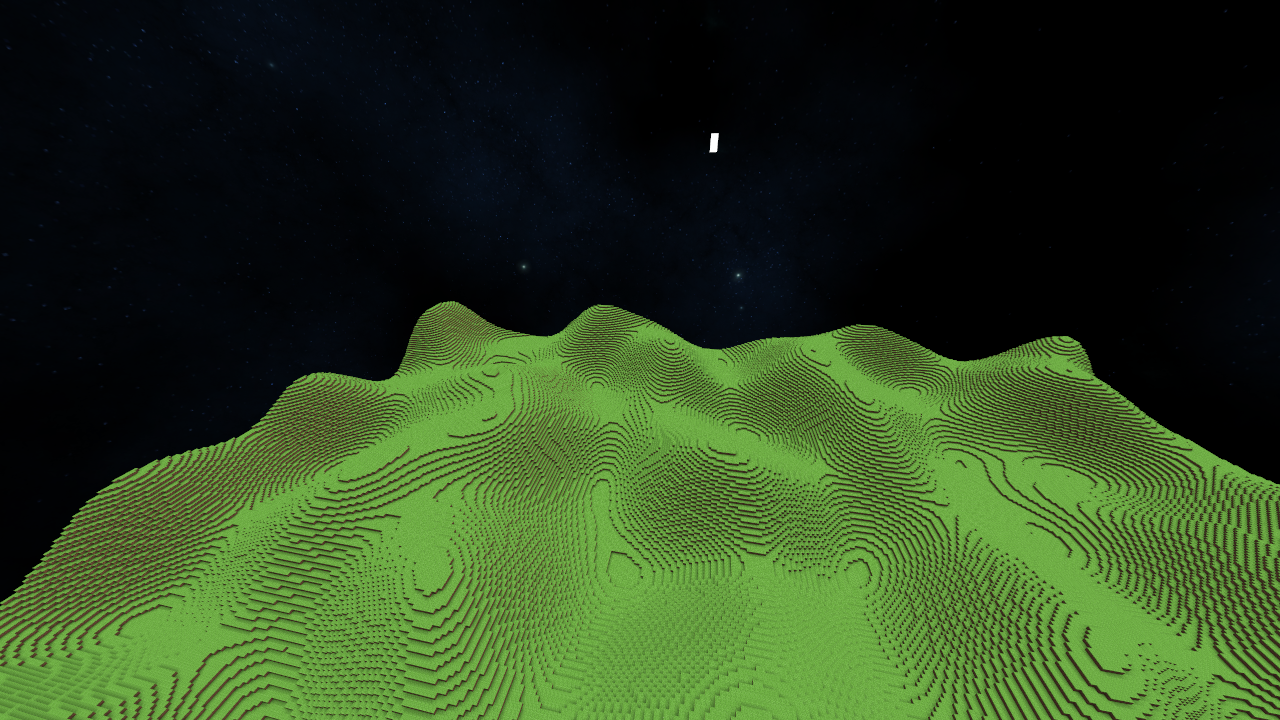
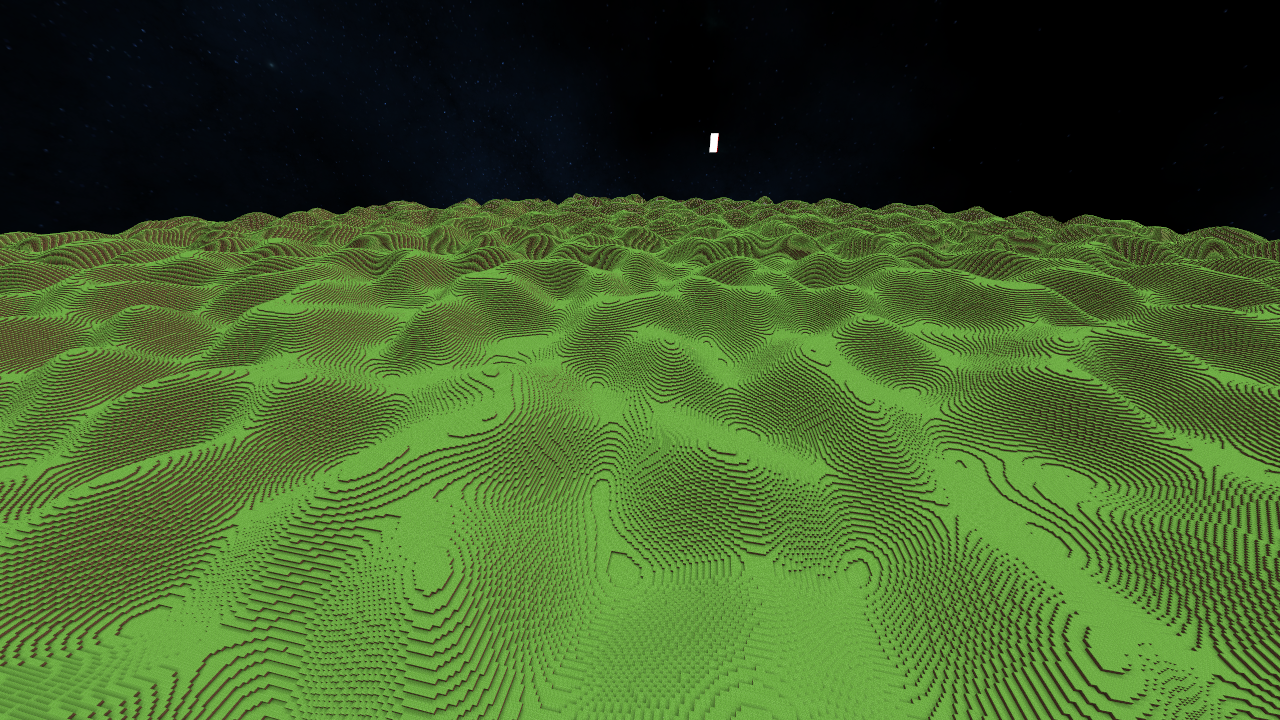
Add job priority to global thread pool
Add total time display to camera window.

Update latest screenshot.

The new priority system allows to set the meshing job priority higher than the generation job, avoiding thread starvation.
Prior to this change all generation jobs were queued before any meshing jobs had a chance to be queued, meaning all generation jobs had to be completed before any meshes were generated.

Changed region(s): [[0.0, 0.275, 1.0, 0.825]]

diff --git a/source/client/source/Threading/Pooling/PriorityWorkQueue.cs b/source/client/source/Threading/Pooling/PriorityWorkQueue.cs
@@ -1,0 +1,81 @@
+using System.Collections.Concurrent;
+
+namespace BlockEngine.Client.Threading.Pooling;
+
+/// <summary>
+/// A thread-safe work queue with multiple priority levels.
+/// </summary>
+/// <typeparam name="T">The type of the items in the queue.</typeparam>
+public class PriorityWorkQueue<T>
+{
+    private readonly BlockingCollection<T> _workQueueLow;
+    private readonly BlockingCollection<T> _workQueueNormal;
+    private readonly BlockingCollection<T> _workQueueHigh;
+    private readonly BlockingCollection<T> _workQueueCritical;
+    private readonly BlockingCollection<T>[] _workQueues;
+
+
+    public PriorityWorkQueue()
+    {
+        _workQueueLow = new BlockingCollection<T>(new ConcurrentQueue<T>());
+        _workQueueNormal = new BlockingCollection<T>(new ConcurrentQueue<T>());
+        _workQueueHigh = new BlockingCollection<T>(new ConcurrentQueue<T>());
+        _workQueueCritical = new BlockingCollection<T>(new ConcurrentQueue<T>());
+        _workQueues = new[]
+        {
+            _workQueueCritical,
+            _workQueueHigh,
+            _workQueueNormal,
+            _workQueueLow
+        };
+    }
+
+
+    public bool IsCompleted => _workQueueLow.IsCompleted &&
+                               _workQueueNormal.IsCompleted &&
+                               _workQueueHigh.IsCompleted &&
+                               _workQueueCritical.IsCompleted;
+
+    public bool IsAddingCompleted => _workQueueLow.IsAddingCompleted &&
+                                     _workQueueNormal.IsAddingCompleted &&
+                                     _workQueueHigh.IsAddingCompleted &&
+                                     _workQueueCritical.IsAddingCompleted;
+
+
+    public void Add(T item, WorkItemPriority priority)
+    {
+        switch (priority)
+        {
+            case WorkItemPriority.Low:
+                _workQueueLow.Add(item);
+                break;
+            case WorkItemPriority.Normal:
+                _workQueueNormal.Add(item);
+                break;
+            case WorkItemPriority.High:
+                _workQueueHigh.Add(item);
+                break;
+            case WorkItemPriority.Critical:
+                _workQueueCritical.Add(item);
+                break;
+            default:
+                throw new ArgumentOutOfRangeException(nameof(priority), priority, null);
+        }
+    }
+
+
+    public bool TryTakeFromAny(out T? item)
+    {
+        int index = BlockingCollection<T>.TryTakeFromAny(_workQueues, out item);
+        return index != -1;
+    }
+
+
+    public void CompleteAdding()
+    {
+        _workQueueLow.CompleteAdding();
+        _workQueueNormal.CompleteAdding();
+        _workQueueHigh.CompleteAdding();
+        _workQueueCritical.CompleteAdding();
+    }
+}

diff --git a/source/client/source/Threading/Jobs/KorpiJob.cs b/source/client/source/Threading/Jobs/KorpiJob.cs
@@ -6,7 +6,7 @@ namespace BlockEngine.Client.Threading.Jobs;
 /// <summary>
 /// A job for the <see cref="Pooling.ThreadPool"/> with a generic result type.
 /// </summary>
-public abstract class VektorJob<T> : IVektorJob, IAwaitable<T>
+public abstract class KorpiJob<T> : IKorpiJob, IAwaitable<T>
 {
     private Action? _continuation;
     private T _result;
@@ -18,11 +18,11 @@ public abstract class VektorJob<T> : IVektorJob, IAwaitable<T>
 
 
     /// <summary>
-    /// Create a new VektorJob instance.
+    /// Create a new KorpiJob instance.
     /// The context of the constructing thread is stored for async/await.
     /// Make sure you construct your job on the same thread that will await the result.
     /// </summary>
-    protected VektorJob()
+    protected KorpiJob()
     {
         _continuation = null;
         _result = default!;
@@ -74,9 +74,9 @@ public abstract class VektorJob<T> : IVektorJob, IAwaitable<T>
     /// <summary>
     /// Dispatches the job to be executed by the thread-pool.
     /// </summary>
-    public VektorJob<T> Dispatch()
+    public KorpiJob<T> Dispatch(WorkItemPriority priority)
     {
-        return GlobalThreadPool.DispatchJob(this);
+        return GlobalThreadPool.DispatchJob(this, priority);
     }
 
 
@@ -114,14 +114,14 @@ public abstract class VektorJob<T> : IVektorJob, IAwaitable<T>
     /// <summary>
     /// Blocks the caller until all specified jobs have completed.
     /// </summary>
-    public static void WhenAll(IEnumerable<IVektorJob> jobs)
+    public static void WhenAll(IEnumerable<IKorpiJob> jobs)
     {
-        IEnumerable<IVektorJob> vektorJobs = jobs.ToList();
+        IEnumerable<IKorpiJob> korpiJobs = jobs.ToList();
         bool isComplete = false;
         while (!isComplete)
         {
             isComplete = true;
-            foreach (IVektorJob job in vektorJobs)
+            foreach (IKorpiJob job in korpiJobs)
             {
                 if (job.CompletionState != JobCompletionState.None) continue;
                 isComplete = false;
@@ -132,9 +132,9 @@ public abstract class VektorJob<T> : IVektorJob, IAwaitable<T>
 }
 
 /// <summary>
-/// Basic implementation of a VektorJob who's result is just the completion state.
+/// Basic implementation of a KorpiJob who's result is just the completion state.
 /// </summary>
-public abstract class VektorJob : VektorJob<JobCompletionState>
+public abstract class KorpiJob : KorpiJob<JobCompletionState>
 {
     public override JobCompletionState GetResult()
     {

diff --git a/source/client/source/Threading/Threads/WorkerThread.cs b/source/client/source/Threading/Threads/WorkerThread.cs
@@ -1,12 +1,12 @@
-using System.Collections.Concurrent;
-using BlockEngine.Client.Logging;
+using BlockEngine.Client.Logging;
 using BlockEngine.Client.Threading.Jobs;
+using BlockEngine.Client.Threading.Pooling;
 
 namespace BlockEngine.Client.Threading.Threads;
 
 public sealed class WorkerThread
 {
-    private readonly BlockingCollection<IVektorJob> _workQueue;
+    private readonly PriorityWorkQueue<IKorpiJob> _workQueue;
     private readonly ThreadConfig _config;
     private readonly Thread _thread;
     private readonly CancellationTokenSource _cts;
@@ -31,7 +31,7 @@ public sealed class WorkerThread
     public Exception? LastException { get; private set; }
 
 
-    public WorkerThread(BlockingCollection<IVektorJob> workQueue, ThreadConfig config)
+    public WorkerThread(PriorityWorkQueue<IKorpiJob> workQueue, ThreadConfig config)
     {
         _workQueue = workQueue;
         _config = config;
@@ -41,6 +41,7 @@ public sealed class WorkerThread
         {
             IsBackground = true
         };
+        _thread.Name = $"Pool Worker Thread #{_thread.ManagedThreadId}";
         _thread.Start(_cts.Token);
 
         _cycleCounter = 0;
@@ -90,7 +91,7 @@ public sealed class WorkerThread
             }
 
             // Check for work.
-            bool hasWork = _workQueue.TryTake(out IVektorJob? job);
+            bool hasWork = _workQueue.TryTakeFromAny(out IKorpiJob? job);
 
             if (hasWork && job == null)
             {

diff --git a/source/client/source/Threading/Pooling/ThreadPool.cs b/source/client/source/Threading/Pooling/ThreadPool.cs
@@ -1,6 +1,4 @@
-using System.Collections.Concurrent;
-using System.Diagnostics;
-using BlockEngine.Client.Logging;
+using BlockEngine.Client.Logging;
 using BlockEngine.Client.Threading.Jobs;
 using BlockEngine.Client.Threading.Threads;
 
@@ -11,8 +9,8 @@ namespace BlockEngine.Client.Threading.Pooling;
 /// </summary>
 public sealed class ThreadPool
 {
-    private readonly BlockingCollection<IVektorJob> _workQueue;
     private readonly List<WorkerThread> _workers;
+    private readonly PriorityWorkQueue<IKorpiJob> _workQueue;
 
 
     /// <summary>
@@ -25,7 +23,7 @@ public sealed class ThreadPool
         if (threadCount == 0)
             throw new ArgumentException("Thread count must be greater than zero!");
 
-        _workQueue = new BlockingCollection<IVektorJob>(new ConcurrentQueue<IVektorJob>());
+        _workQueue = new PriorityWorkQueue<IKorpiJob>();
         _workers = new List<WorkerThread>();
 
         for (int i = 0; i < threadCount; i++)
@@ -33,12 +31,12 @@ public sealed class ThreadPool
     }
 
 
-    public void EnqueueWorkItem(IVektorJob vektorJob)
+    public void EnqueueWorkItem(IKorpiJob korpiJob, WorkItemPriority priority)
     {
         if (_workQueue.IsAddingCompleted)
             throw new InvalidOperationException("Cannot queue a work item if the pool is shutting down.");
 
-        _workQueue.Add(vektorJob);
+        _workQueue.Add(korpiJob, priority);
     }
 
 

diff --git a/source/client/source/Threading/Pooling/GlobalThreadPool.cs b/source/client/source/Threading/Pooling/GlobalThreadPool.cs
@@ -53,7 +53,7 @@ public static class GlobalThreadPool
 
     public static void Initialize()
     {
-        // Allocate 3/4 of the system's thread count with a minimum of 2.
+        // Since we're CPU-bound (most of the threads will be waiting in a loop), allocate only 3/4 of the system's logical processor count with a minimum of 2.
         ThreadCount = (uint)Math.Max(SystemInfo.ProcessorCount * 3 / 4, 2);
         threadPool = new ThreadPool(ThreadCount, ThreadConfig.Default());
         mainQueue = new ConcurrentQueue<Action>();
@@ -94,9 +94,9 @@ public static class GlobalThreadPool
     /// <summary>
     /// Immediately queues the provided job for execution on the pool.
     /// </summary>
-    public static VektorJob<T> DispatchJob<T>(VektorJob<T> item)
+    public static KorpiJob<T> DispatchJob<T>(KorpiJob<T> item, WorkItemPriority priority)
     {
-        threadPool.EnqueueWorkItem(item);
+        threadPool.EnqueueWorkItem(item, priority);
         return item;
     }
 

diff --git a/source/client/source/World/Regions/Chunks/Chunk.cs b/source/client/source/World/Regions/Chunks/Chunk.cs
@@ -156,7 +156,7 @@ public class Chunk
         _generationState = ChunkGenerationState.GENERATING;
         _isLoaded = true;
         Interlocked.Increment(ref _currentJobId);
-        GlobalThreadPool.DispatchJob(new GenerationJob(_currentJobId, this, _generateJobCallback));
+        GlobalThreadPool.DispatchJob(new GenerationJob(_currentJobId, this, _generateJobCallback), WorkItemPriority.Normal);
     }
 
 
@@ -251,7 +251,7 @@ public class Chunk
         }
         _meshState = ChunkMeshState.MESHING;
         Interlocked.Increment(ref _currentJobId);
-        GlobalThreadPool.DispatchJob(new MeshingJob(_currentJobId, this, _meshJobCallback));
+        GlobalThreadPool.DispatchJob(new MeshingJob(_currentJobId, this, _meshJobCallback), WorkItemPriority.High);
     }
 
 

diff --git a/source/client/source/Constants.cs b/source/client/source/Constants.cs
@@ -1,4 +1,6 @@
-namespace BlockEngine.Client;
+using BlockEngine.Client.Threading.Jobs;
+
+namespace BlockEngine.Client;
 
 public static class Constants
 {
@@ -73,7 +75,7 @@ public static class Constants
     
     // Threading
     /// <summary>
-    /// Maximum amount of time (ms) a <see cref="BlockEngine.Client.Threading.Jobs.VektorJob{t}"/> will wait for a lock before aborting.
+    /// Maximum amount of time (ms) a <see cref="KorpiJob{T}"/> will wait for a lock before aborting.
     /// </summary>
     public const int JOB_LOCK_TIMEOUT_MS = 10000;
 }

diff --git a/source/client/source/Threading/Pooling/WorkItemPriority.cs b/source/client/source/Threading/Pooling/WorkItemPriority.cs
@@ -1,0 +1,24 @@
+namespace BlockEngine.Client.Threading.Pooling;
+
+/// <summary>
+/// The priority of a work item.
+/// </summary>
+public enum WorkItemPriority
+{
+    /// <summary>
+    /// The lowest priority.
+    /// </summary>
+    Low,
+    /// <summary>
+    /// The default priority.
+    /// </summary>
+    Normal,
+    /// <summary>
+    /// A high priority.
+    /// </summary>
+    High,
+    /// <summary>
+    /// The task should be executed as soon as possible.
+    /// </summary>
+    Critical
+}

diff --git a/source/client/source/Window/SystemInfo.cs b/source/client/source/Window/SystemInfo.cs
@@ -1,6 +1,12 @@
 namespace BlockEngine.Client.Window;
 
+/// <summary>
+/// Contains information about the current system.
+/// </summary>
 public class SystemInfo
 {
+    /// <summary>
+    /// Gets the number of processors available to the current process.
+    /// </summary>
     public static int ProcessorCount => Environment.ProcessorCount;
 }

diff --git a/source/client/source/UI/Windows/CameraWindow.cs b/source/client/source/UI/Windows/CameraWindow.cs
@@ -36,5 +36,6 @@ public class CameraWindow : ImGuiWindow
         ImGui.Separator();
         ImGui.Text($"Time: {GameTime.GetFormattedTime()}");
         ImGui.Text($"Date: {GameTime.GetFormattedDate()}");
+        ImGui.Text($"TTime (s): {GameTime.TotalTime:F1}");
     }
 }

diff --git a/source/client/source/Threading/Jobs/JobCompletionState.cs b/source/client/source/Threading/Jobs/JobCompletionState.cs
@@ -1,7 +1,7 @@
 namespace BlockEngine.Client.Threading.Jobs;
 
 /// <summary>
-/// Represents the completion state of a <see cref="IVektorJob"/>.
+/// Represents the completion state of a <see cref="IKorpiJob"/>.
 /// </summary>
 public enum JobCompletionState
 {

diff --git a/source/client/source/Generation/Jobs/GenerationJob.cs b/source/client/source/Generation/Jobs/GenerationJob.cs
@@ -6,7 +6,7 @@ using BlockEngine.Client.World.Regions.Chunks;
 
 namespace BlockEngine.Client.Generation.Jobs;
 
-public class GenerationJob : VektorJob
+public class GenerationJob : KorpiJob
 {
     private readonly long _id;
     private readonly Chunk _chunk;
